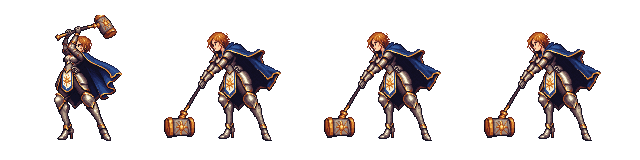
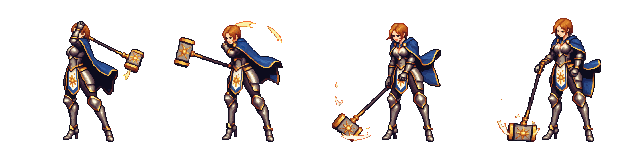
Animation fixed?

Changed region(s): [[0.0625, 0.0938, 0.4375, 0.9062], [0.75, 0.0938, 0.9375, 0.9062], [0.5, 0.125, 0.6875, 0.9062]]

diff --git a/js/core/version.js b/js/core/version.js
@@ -2,5 +2,5 @@
    (major.minor.patch); the engine version next to it comes from the engine and only changes with the rules. */
 import { ENGINE_VERSION } from '../engine/world.js';
 
-export const GAME_VERSION = '0.35.2';
+export const GAME_VERSION = '0.36.0';
 export const versionText = () => 'v' + GAME_VERSION + ' · engine ' + ENGINE_VERSION;

diff --git a/README.md b/README.md
@@ -200,6 +200,14 @@ The map fills the window and the HUD floats on top: level, wave and lives in the
 - **Choosing heroes for a level** starts with none picked; you can clear them all, but Start waits for at least one.
 - **Balance (bot):** lineups of three at a level-10 player win levels 1 and 2 every time and level 3 about two times in three; levels 4 and 5 are out of reach for the bot now (they reach waves 21 to 27). Solo heroes have a harder time on level 2 than before, since ultimates are now rare. The bot no longer evolves into the Occult when it plays alone, since that form deals no damage.
 
+## Paladin and Shaman attacks remade (Nov 16)
+- **Paladin:** a new 4-frame attack made from her standing pose: she winds the hammer back, swings it over her head and smashes it down to her left (a few sparks fly on impact), then steadies it. The hammer stays rigid, its handle at 90 degrees to the head, in every frame.
+- **Shaman:** a new 4-frame cast made from his standing pose (facing left): he levels the whole totem staff toward the target with both hands in front of his body, the bird head flashing blue, and holds it. Game version 0.36.0.
+
+## Paladin and Shaman attack fixes, take two (Nov 16)
+- **Paladin:** her smash pose is redrawn so the hammer is built right: the handle meets the hammer head at 90 degrees, with the head standing on its striking face.
+- **Shaman:** his cast pose is redrawn so the arm holding the staff comes from his near shoulder in front of his body (it used to pass behind his head), with the open hand reaching forward. The cast holds that pose. Game version 0.35.3.
+
 ## Paladin and Shaman attack fixes (Nov 16)
 - **Paladin:** the hammer no longer bends while she smashes. The in-between frames that stretched its handle are replaced by her smash pose, so the hammer keeps its shape (raised, then smashed down and held).
 - **Shaman:** his free hand no longer slips behind his body at the end of his cast; the frame that did it is gone and the cast ends on the frame where both hands are clear. Game version 0.35.2.
